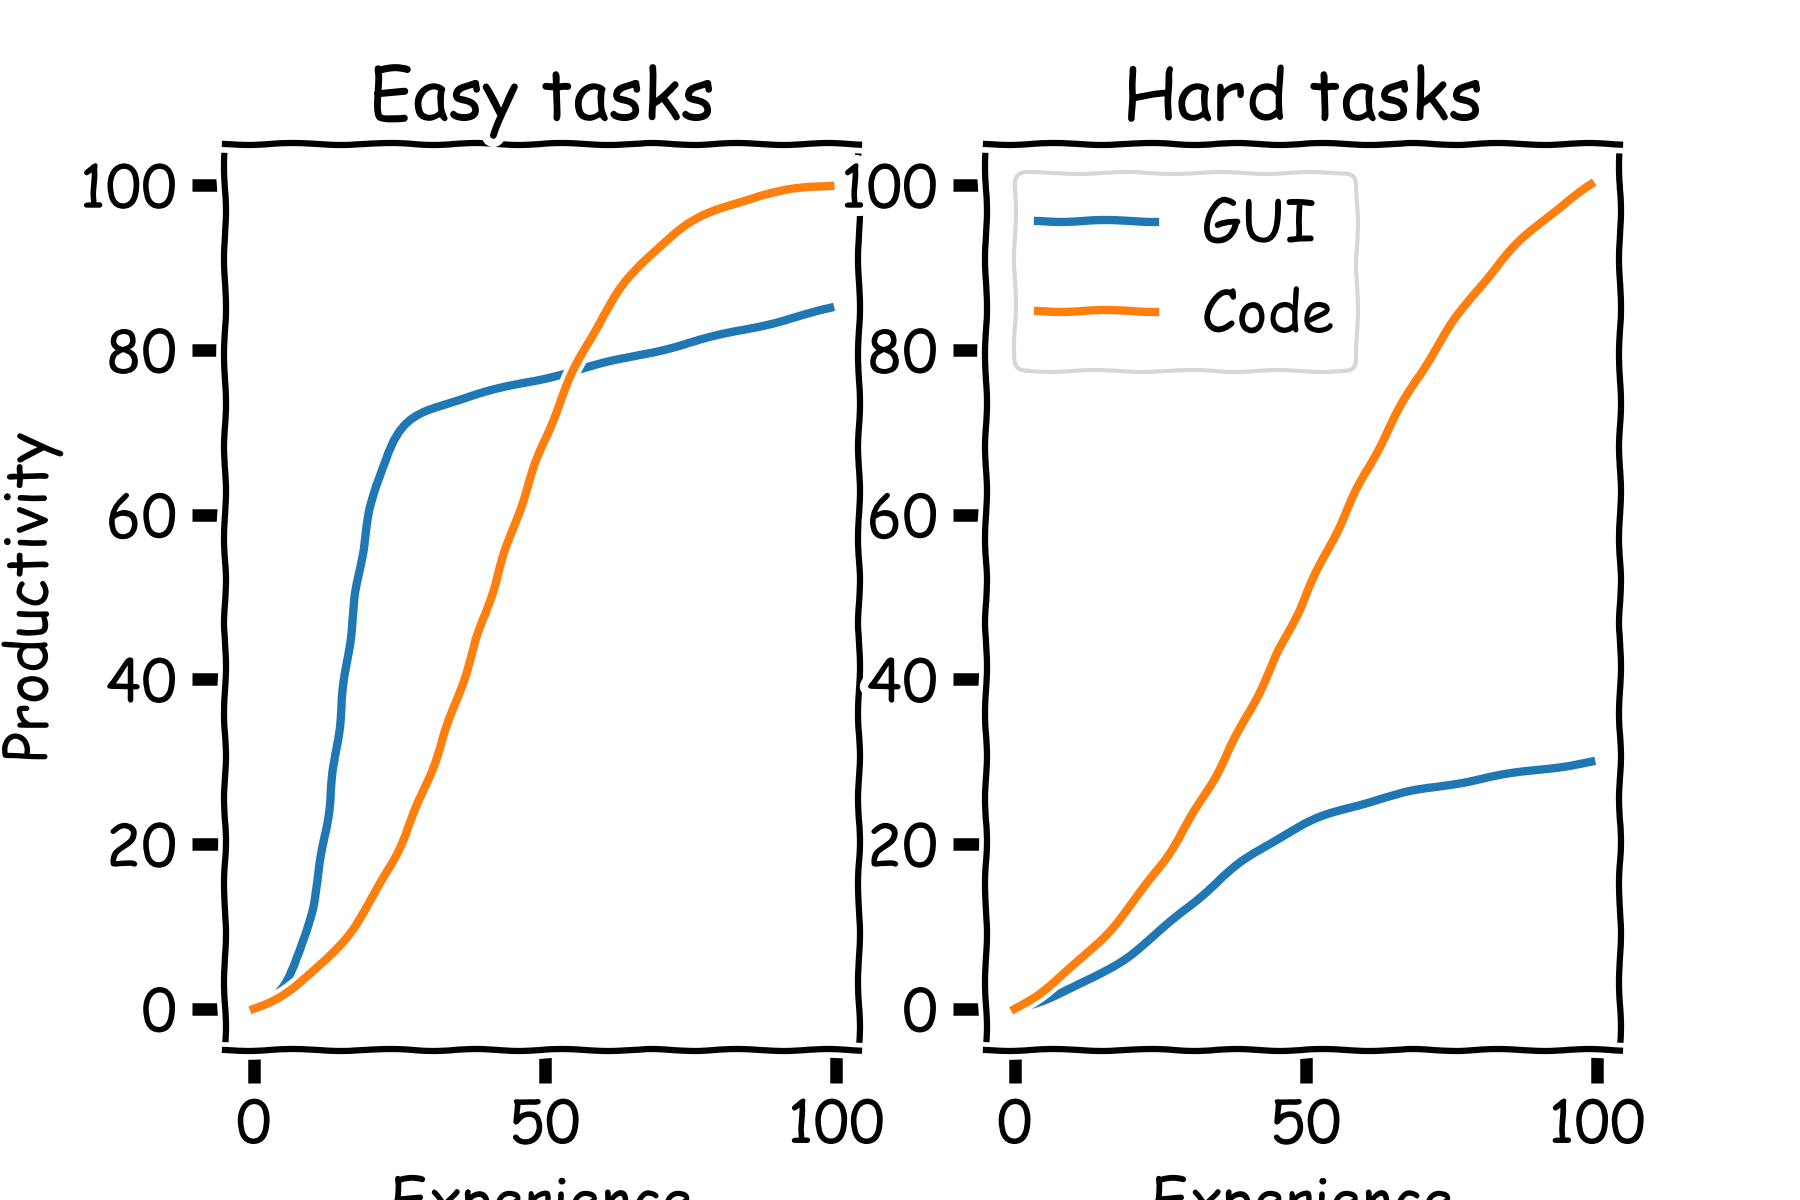
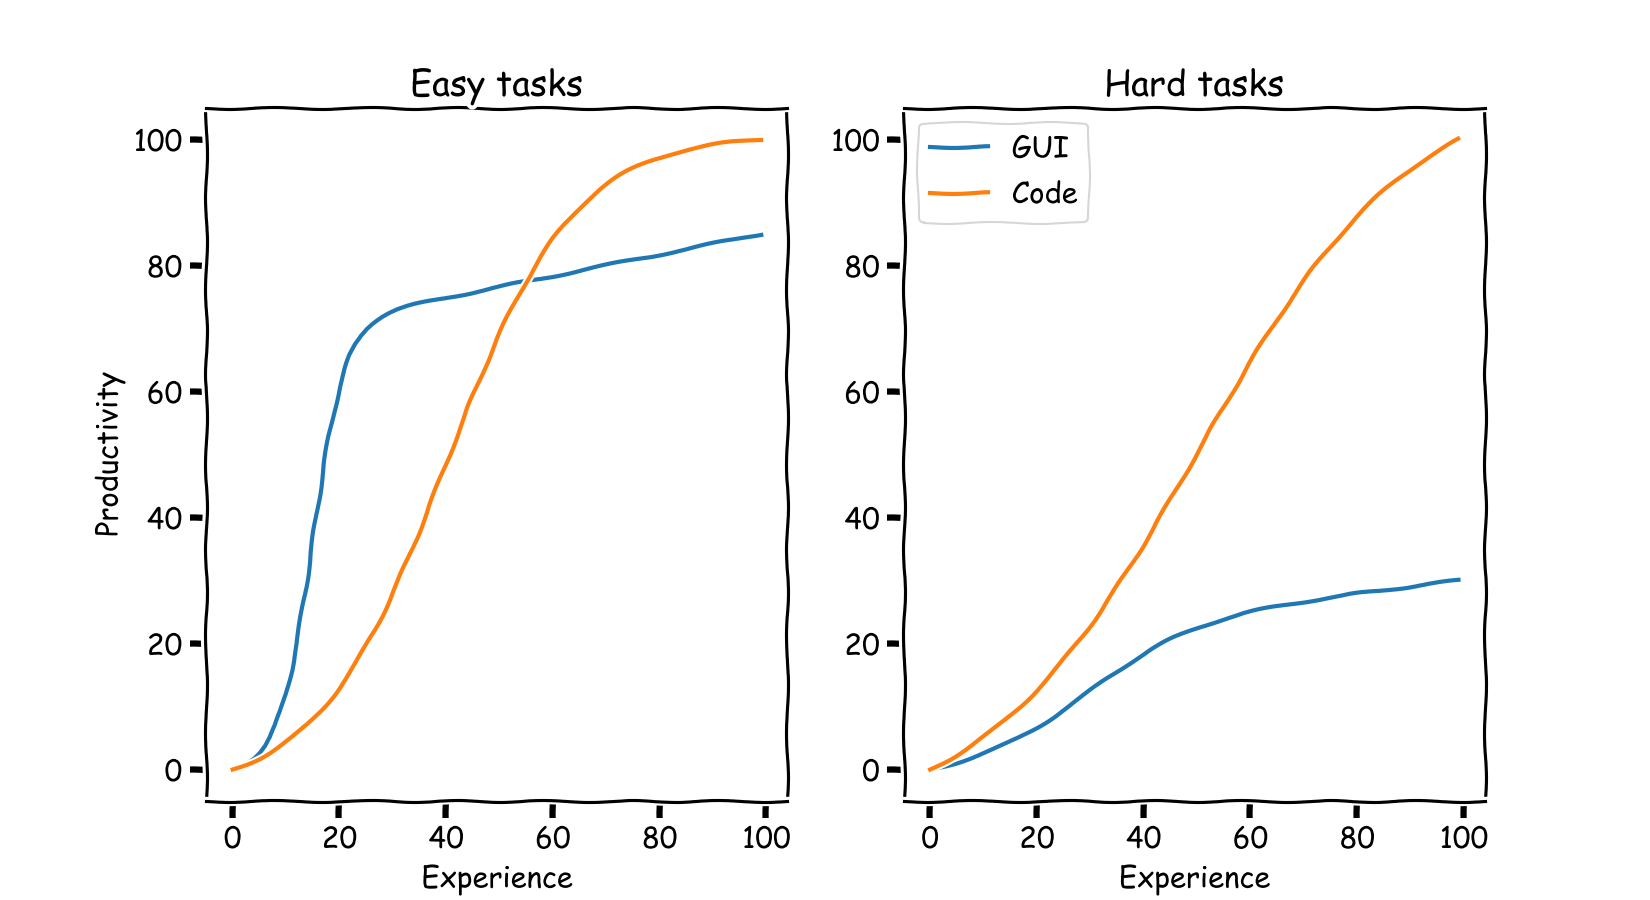
Rebuild GUI / code graphic
Was cutting off the text at the bottom.

diff --git a/scripts/gui_and_code.py b/scripts/gui_and_code.py
@@ -19,7 +19,7 @@ def normalize(vals):
     return vals / max(vals)
 
 
-fig, (easy_ax, hard_ax) = plt.subplots(1, 2)
+fig, (easy_ax, hard_ax) = plt.subplots(1, 2, figsize=(11, 6))
 x = np.arange(100)
 gui = sigmoid(x, 15, 3) + x * 0.25
 easy_ax.plot(x, normalize(gui) * 85, label='GUI')
@@ -33,4 +33,4 @@ hard_ax.plot(x, normalize(sigmoid(x, 50, 20)) * 100, label='Code')
 hard_ax.set_xlabel('Experience')
 hard_ax.legend()
 hard_ax.set_title('Hard tasks');
-fig.savefig(pjoin(here, '..', 'images', 'gui_and_code.png'), dpi=300)
+fig.savefig(pjoin(here, '..', 'images', 'gui_and_code.png'), dpi=150)
